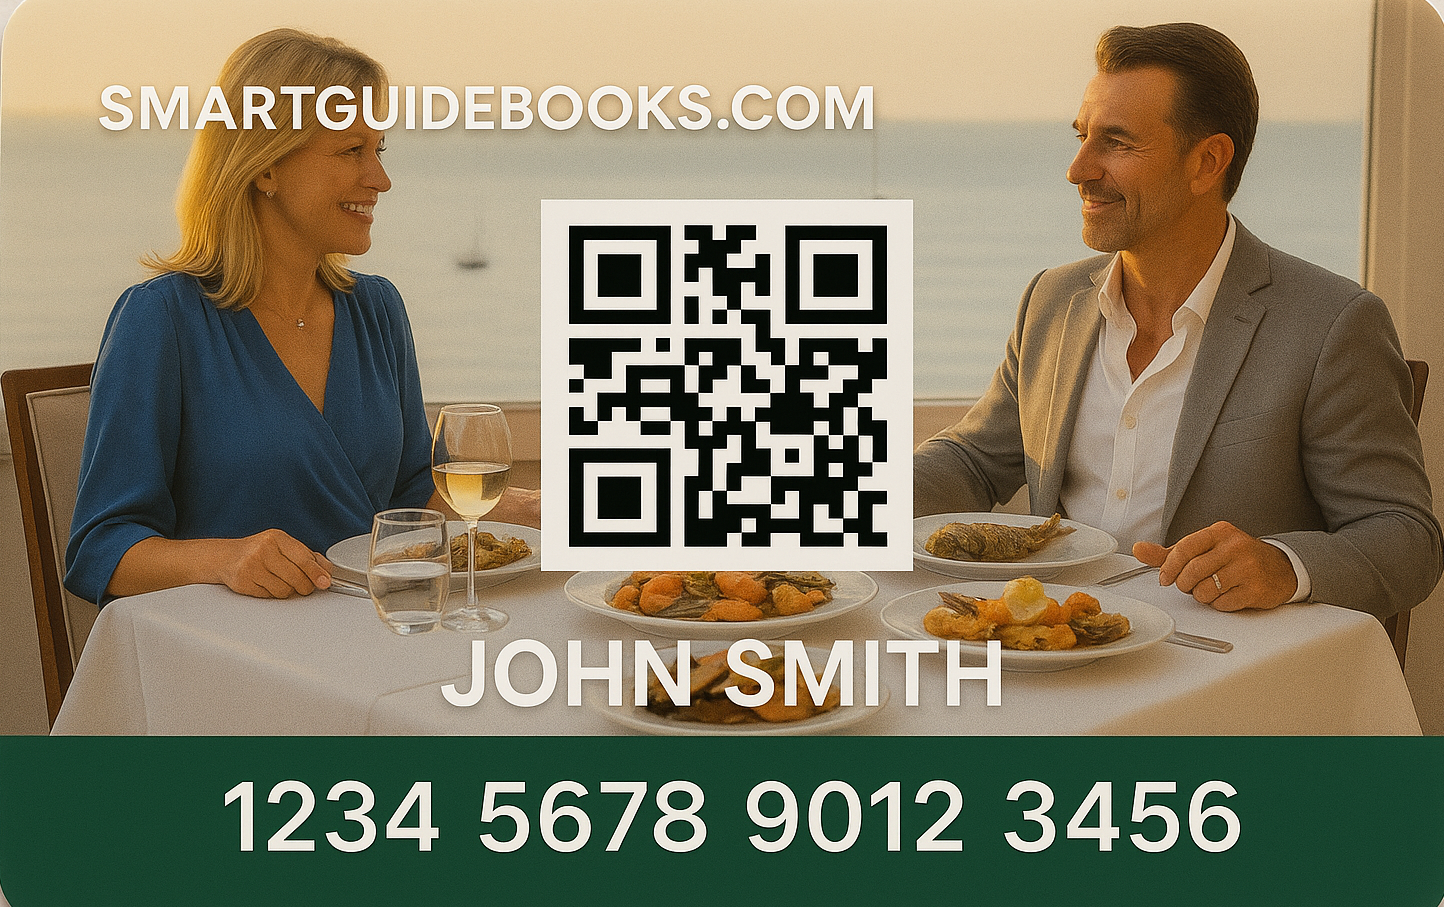
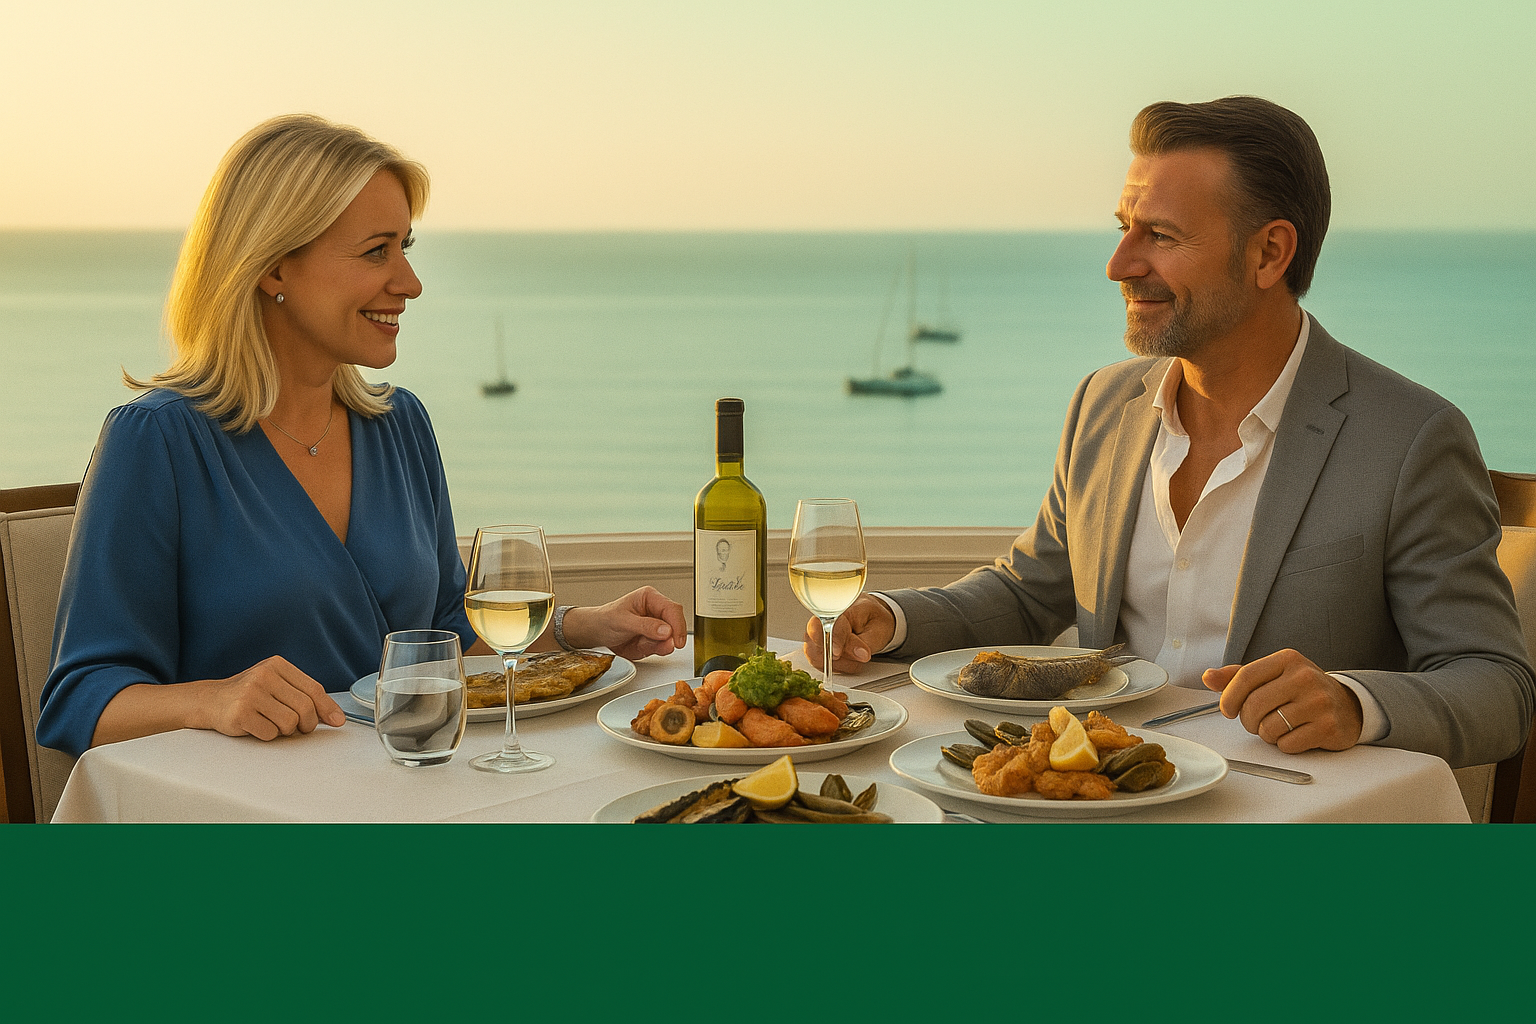
Update membership card base image

diff --git a/src/components/MemberCard.tsx b/src/components/MemberCard.tsx
@@ -94,12 +94,6 @@ export const MemberCard = () => {
         // Draw background
         ctx.drawImage(bgImg, 0, 0, canvas.width, canvas.height);
 
-        // Add branding text at top
-        ctx.fillStyle = '#FFFFFF';
-        ctx.font = 'bold 48px Arial';
-        ctx.textAlign = 'center';
-        ctx.fillText('SMARTGUIDEBOOKS.COM', canvas.width / 2, 100);
-
         // Draw QR code in center
         if (qrCodeUrl) {
           const qrImg = new Image();
@@ -115,21 +109,16 @@ export const MemberCard = () => {
             
             ctx.drawImage(qrImg, qrX, qrY, qrSize, qrSize);
 
-            // Draw green footer section
-            const footerHeight = 200;
-            const footerY = canvas.height - footerHeight;
-            ctx.fillStyle = '#2F4F2F'; // Dark green
-            ctx.fillRect(0, footerY, canvas.width, footerHeight);
-
-            // Member name
+            // Member name and card number (positioned at bottom over the green section in background)
+            const textY = canvas.height - 150;
             ctx.fillStyle = '#FFFFFF';
             ctx.font = 'bold 56px Arial';
             ctx.textAlign = 'center';
-            ctx.fillText(cardData.member_name.toUpperCase(), canvas.width / 2, footerY + 80);
+            ctx.fillText(cardData.member_name.toUpperCase(), canvas.width / 2, textY);
 
             // Card number
             ctx.font = 'bold 44px Arial';
-            ctx.fillText(formatCardNumber(cardData.card_number), canvas.width / 2, footerY + 150);
+            ctx.fillText(formatCardNumber(cardData.card_number), canvas.width / 2, textY + 70);
 
             // Download
             canvas.toBlob((blob) => {
@@ -226,15 +215,8 @@ export const MemberCard = () => {
               className="relative w-full aspect-[16/10] bg-cover bg-center"
               style={{ backgroundImage: `url(${memberCardBg})` }}
             >
-              {/* Branding */}
-              <div className="absolute top-8 left-0 right-0 text-center">
-                <h3 className="text-3xl md:text-4xl font-bold text-white drop-shadow-lg">
-                  SMARTGUIDEBOOKS.COM
-                </h3>
-              </div>
-
               {/* QR Code */}
-              <div className="absolute top-1/2 left-1/2 transform -translate-x-1/2 -translate-y-1/2">
+              <div className="absolute top-1/2 left-1/2 transform -translate-x-1/2 -translate-y-1/2 -mt-12">
                 {qrCodeUrl && (
                   <div className="bg-white p-4">
                     <img 
@@ -246,8 +228,8 @@ export const MemberCard = () => {
                 )}
               </div>
 
-              {/* Footer with member info */}
-              <div className="absolute bottom-0 left-0 right-0 bg-[#2F4F2F] py-6 px-8">
+              {/* Footer with member info - overlays the green section of the background */}
+              <div className="absolute bottom-0 left-0 right-0 py-6 px-8">
                 <div className="text-center space-y-2">
                   <p className="text-white text-2xl md:text-3xl font-bold">
                     {cardData.member_name.toUpperCase()}
